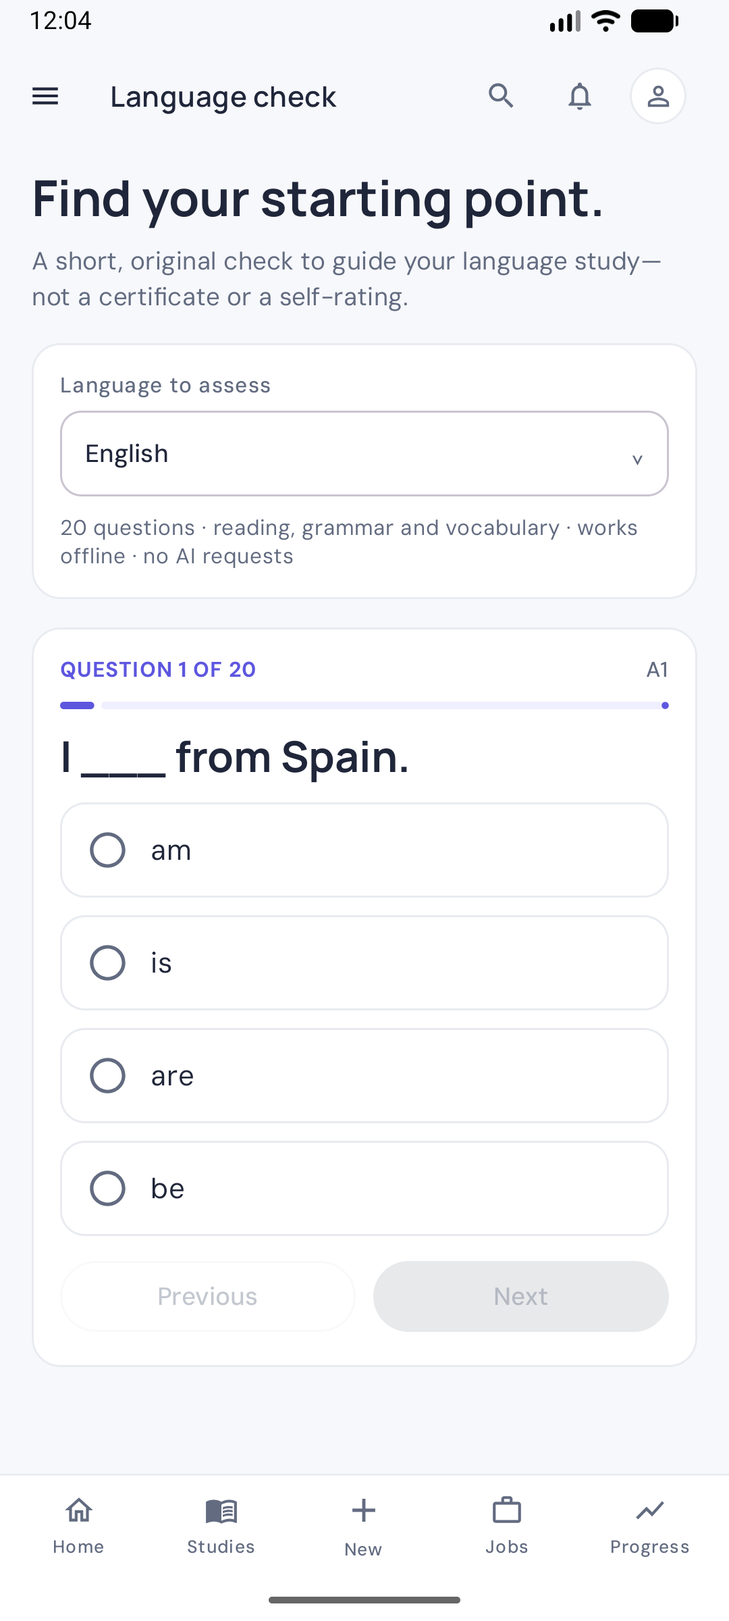
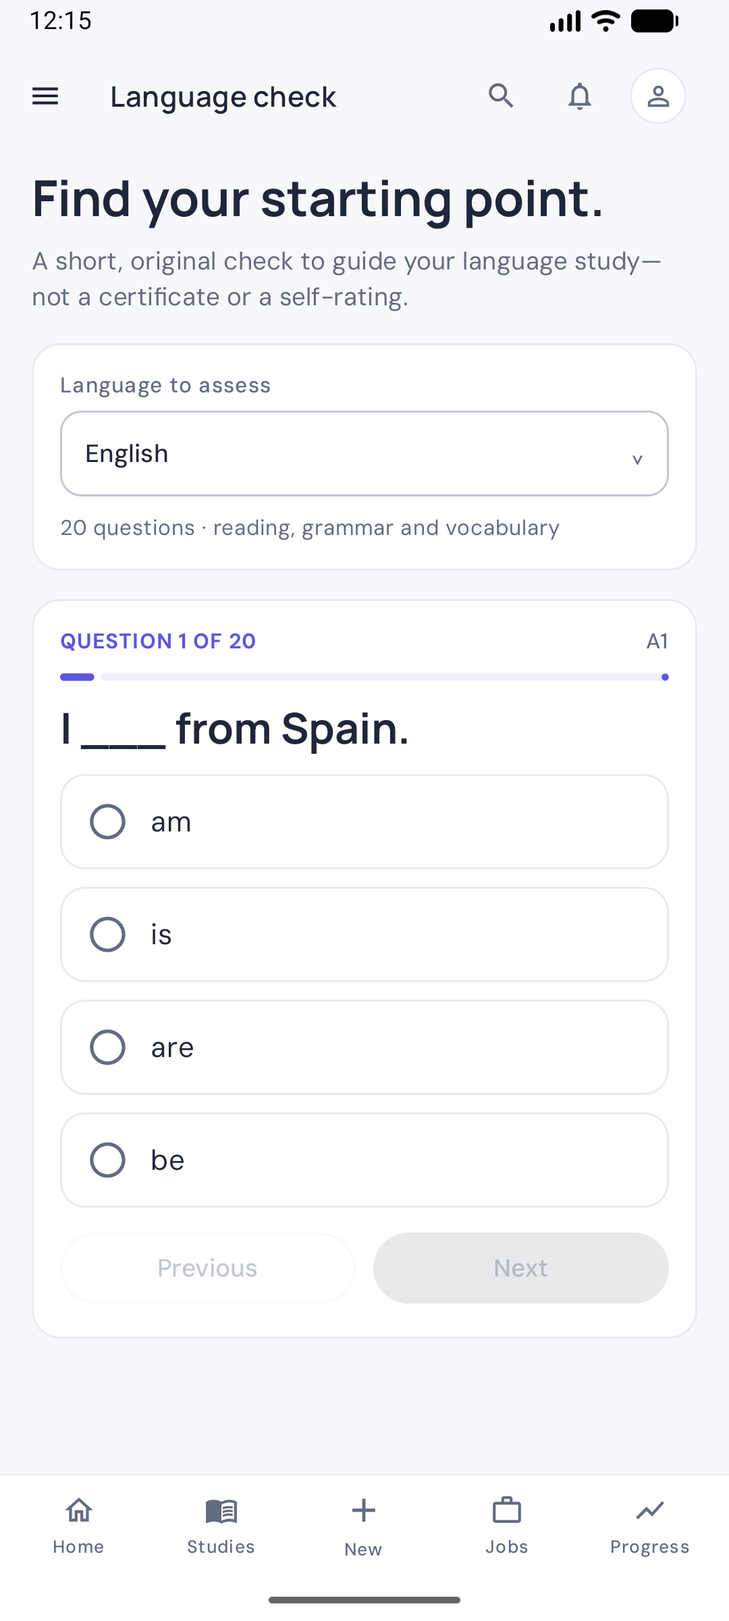
Simplify learner-facing study copy

diff --git a/android/app/src/main/java/com/oriol/letsstudy/ui/WorkspacePractice.kt b/android/app/src/main/java/com/oriol/letsstudy/ui/WorkspacePractice.kt
@@ -91,9 +91,8 @@ fun WorkspaceStudyPath(state: LetsStudyUiState, viewModel: LetsStudyViewModel, o
             WorkspaceCard {
                 Text(if (selectedModule == null) "Keep your curiosity moving" else "Practise ${selectedModule.title}", style = MaterialTheme.typography.titleMedium, fontWeight = FontWeight.Bold)
                 WorkspaceSelect("Practice format", PracticeFormat.valueOf(selectedFormat).label, PracticeFormat.entries.map { it.label }) { label -> selectedFormat = PracticeFormat.entries.first { it.label == label }.name }
-                WorkspaceSelect("Generation mode", if (mode == "ONLINE") "Fast online" else "On-device", listOf("Fast online", "On-device")) { mode = if (it == "Fast online") "ONLINE" else "OFFLINE" }
+                WorkspaceSelect("Study mode", if (mode == "ONLINE") "Fast online" else "On-device", listOf("Fast online", "On-device")) { mode = if (it == "Fast online") "ONLINE" else "OFFLINE" }
                 Button({ onGenerate(PracticeFormat.valueOf(selectedFormat), selectedModule, mode, false) }, Modifier.fillMaxWidth(), enabled = !state.workspaceBusy && !state.isGenerating) { Icon(Icons.Outlined.Add, null); Spacer(Modifier.width(8.dp)); Text("Add 15 new questions") }
-                Text("One online request per round. On-device rounds run in smaller batches and take longer.", style = MaterialTheme.typography.bodySmall, color = LetsStudyColors.Muted)
             }
         }
         item { WorkspaceAction("Ask your study tutor", "Definitions, examples and a little more clarity", Icons.Outlined.ChatBubbleOutline, onTutor) }
@@ -192,7 +191,6 @@ fun WorkspacePractice(state: LetsStudyUiState, viewModel: LetsStudyViewModel, on
                         speechError?.let { Text(it, color = MaterialTheme.colorScheme.error) }
                     }
                     Button({ onAnswer(answer.trim()); revealed = true }, enabled = answer.isNotBlank() && !state.workspaceBusy, modifier = Modifier.fillMaxWidth()) { Text(if (question.format == PracticeFormat.FILL_BLANK.name) "Check answer" else if (question.answeredAt > 0) "Review my answer again" else "Get feedback") }
-                    if (question.format != PracticeFormat.FILL_BLANK.name) Text("Feedback makes one AI request in your study's generation mode.", style = MaterialTheme.typography.bodySmall, color = LetsStudyColors.Muted)
                 }
             }
             if (selected >= 0 || question.answeredAt > 0) item {
@@ -232,10 +230,10 @@ private fun WorkspaceTheory(state: LetsStudyUiState, question: StudyQuestionEnti
                 lesson.keyTerms.forEach { term -> Text(term.term, fontWeight = FontWeight.SemiBold); Text(term.definition) }
                 Text("Remember this", fontWeight = FontWeight.Bold); Text(lesson.rememberThis)
             } else {
-                Text("Go deeper with a definition, how it works, an example and key terms. The first lesson uses one Fast Online request and is saved for offline reading.", style = MaterialTheme.typography.bodySmall)
+                Text("Go deeper with a definition, how it works, an example and key terms. Your lesson is saved with this question.", style = MaterialTheme.typography.bodySmall)
                 if (loading) CircularProgressIndicator(Modifier.size(24.dp))
                 else Button(onRequest) { Text("Learn this topic") }
-                state.conceptLessonErrorCodes[question.id]?.let { code -> Text(when (code) { "QUOTA" -> "The online quota is currently exhausted. Try again later."; "NETWORK" -> "Check your internet connection and try again."; else -> "The lesson couldn't be created. Try again." }, color = MaterialTheme.colorScheme.error) }
+                state.conceptLessonErrorCodes[question.id]?.let { code -> Text(when (code) { "QUOTA" -> "The study service is temporarily unavailable. Try again later."; "NETWORK" -> "Check your internet connection and try again."; else -> "The lesson couldn't be created. Try again." }, color = MaterialTheme.colorScheme.error) }
             }
         } }, confirmButton = { TextButton(onDismiss) { Text("Back to practice") } })
 }
@@ -264,7 +262,6 @@ fun WorkspaceTutor(state: LetsStudyUiState, questionContext: Boolean, onBack: ()
             item {
                 Row(verticalAlignment = Alignment.CenterVertically) { IconButton(onBack) { Icon(Icons.AutoMirrored.Outlined.ArrowBack, "Back to study") }; Text("Your study tutor", style = MaterialTheme.typography.titleMedium, fontWeight = FontWeight.Bold) }
                 WorkspaceTitle("Make it click.", question?.topic ?: session.title)
-                Text("Each message uses one online Gemini request, including for on-device studies. Saved conversations can be read offline.", style = MaterialTheme.typography.bodySmall, color = LetsStudyColors.Muted, modifier = Modifier.padding(top = 8.dp))
             }
             item {
                 Column(verticalArrangement = Arrangement.spacedBy(8.dp)) {

diff --git a/android/app/src/main/java/com/oriol/letsstudy/ui/WorkspaceLibrary.kt b/android/app/src/main/java/com/oriol/letsstudy/ui/WorkspaceLibrary.kt
@@ -202,8 +202,8 @@ fun WorkspaceSettings(state: LetsStudyUiState, viewModel: LetsStudyViewModel, on
                     Text("Your account display name and username are managed in Account & sync above.", style = MaterialTheme.typography.bodySmall, color = LetsStudyColors.Muted)
                 }
                 WorkspaceField(settings.language, { viewModel.saveSettings(settings.copy(language = it)) }, "Default study language", maxLength = 80)
-                WorkspaceSelect("Preferred generation", if (settings.mode == "ONLINE") "Fast online" else "On-device", listOf("Fast online", "On-device")) { viewModel.saveSettings(settings.copy(mode = if (it == "Fast online") "ONLINE" else "OFFLINE")) }
-                Text("Fast online uses a shared, limited Gemini quota. The owner can check limits in Google AI Studio. On-device avoids online generation quota but can take longer.", style = MaterialTheme.typography.bodySmall, color = LetsStudyColors.Muted)
+                WorkspaceSelect("Preferred study mode", if (settings.mode == "ONLINE") "Fast online" else "On-device", listOf("Fast online", "On-device")) { viewModel.saveSettings(settings.copy(mode = if (it == "Fast online") "ONLINE" else "OFFLINE")) }
+                Text("Fast online is quicker. On-device study may take longer and requires a one-time model download.", style = MaterialTheme.typography.bodySmall, color = LetsStudyColors.Muted)
             }
         }
         item {
@@ -228,7 +228,7 @@ fun WorkspaceSettings(state: LetsStudyUiState, viewModel: LetsStudyViewModel, on
         item {
             WorkspaceCard {
                 Text("Privacy & your data", style = MaterialTheme.typography.titleMedium, fontWeight = FontWeight.Bold)
-                Text("Your studies work without an account and are stored on this phone. If you opt into sync, your display name, private username and study library are stored with your Firebase account so they are available on your other devices. The optional community board shares only a nickname and weekly points after a separate opt-in; study content and your email stay private. Scanned PDF text is recognized on-device; Google ML Kit may separately send service performance metrics. Online AI requests are processed separately by Google Gemini; on-device generation stays on this phone.", style = MaterialTheme.typography.bodySmall, color = LetsStudyColors.Muted)
+                Text("Your studies are saved on this phone. If you enable account sync, your profile and study library are stored in Firebase. Fast Online sends relevant study material and submitted answers or tutor messages to Google Gemini. On-device study generation uses the model installed on your phone; tutor messages and deeper lessons still use Google Gemini. Scanned PDFs are read on your phone, though Google ML Kit may send service metrics. The optional community board shows your chosen name and weekly points after you join; your email and study content stay private.", style = MaterialTheme.typography.bodySmall, color = LetsStudyColors.Muted)
                 TextButton({ clearConfirm = true }, colors = ButtonDefaults.textButtonColors(contentColor = MaterialTheme.colorScheme.error)) { Text("Delete all study data") }
                 TextButton({ showNotices = true }) { Text("Third-party licenses") }
             }
@@ -306,7 +306,7 @@ private fun AccountSyncPanel(account: StudyAccountState, localDisplayName: Strin
                 CloudSyncStatus.CONNECTING -> "Connecting to your private study library…"
                 CloudSyncStatus.SYNCING -> "Syncing your studies…"
                 CloudSyncStatus.SYNCED -> "Your studies are up to date"
-                CloudSyncStatus.OFFLINE -> "Offline · saved studies stay on this phone until sync resumes"
+                CloudSyncStatus.OFFLINE -> "No connection · saved studies will sync when your connection returns"
                 CloudSyncStatus.ERROR -> "Cloud sync needs attention"
             }
             Row(verticalAlignment = Alignment.CenterVertically, horizontalArrangement = Arrangement.spacedBy(8.dp)) {

diff --git a/android/app/src/main/java/com/oriol/letsstudy/ui/ConceptLessonUiCopy.kt b/android/app/src/main/java/com/oriol/letsstudy/ui/ConceptLessonUiCopy.kt
@@ -8,7 +8,6 @@ data class ConceptLessonUiCopy(
     val loading: String,
     val retryAction: String,
     val closeAction: String,
-    val quotaNote: String,
     val keyTermsTitle: String,
     val rememberTitle: String,
     val networkError: String,
@@ -43,11 +42,10 @@ data class ConceptLessonUiCopy(
             loading = "Building your lesson…",
             retryAction = "Try again",
             closeAction = "Back to question",
-            quotaNote = "Uses one shared Gemini request. The lesson is saved for offline review.",
             keyTermsTitle = "Key terms",
             rememberTitle = "Remember this",
             networkError = "Couldn’t connect. Check your internet and try again.",
-            quotaError = "The shared Gemini quota is currently unavailable. Try again later.",
+            quotaError = "The study service is temporarily unavailable. Try again later.",
             appCheckError = "Firebase couldn’t verify this app. Check its App Check registration.",
             timeoutError = "The lesson took too long to arrive. Try again.",
             invalidResponseError = "The lesson came back incomplete. Try again.",
@@ -62,11 +60,10 @@ data class ConceptLessonUiCopy(
             loading = "Preparando la explicación…",
             retryAction = "Intentar de nuevo",
             closeAction = "Volver a la pregunta",
-            quotaNote = "Usa una solicitud compartida de Gemini. Después podrás consultar la explicación sin conexión.",
             keyTermsTitle = "Conceptos clave",
             rememberTitle = "Qué recordar",
             networkError = "No se pudo conectar. Comprueba internet e inténtalo de nuevo.",
-            quotaError = "El límite compartido de Gemini no está disponible ahora. Prueba más tarde.",
+            quotaError = "El servicio de estudio no está disponible en este momento. Inténtalo más tarde.",
             appCheckError = "Firebase no pudo verificar esta app. Revisa su registro de App Check.",
             timeoutError = "La explicación tardó demasiado. Inténtalo de nuevo.",
             invalidResponseError = "La explicación llegó incompleta. Inténtalo de nuevo.",
@@ -81,11 +78,10 @@ data class ConceptLessonUiCopy(
             loading = "กำลังสร้างบทเรียน…",
             retryAction = "ลองอีกครั้ง",
             closeAction = "กลับไปที่คำถาม",
-            quotaNote = "ใช้คำขอ Gemini ที่แชร์กันหนึ่งครั้ง จากนั้นบันทึกไว้อ่านแบบออฟไลน์ได้",
             keyTermsTitle = "คำศัพท์สำคัญ",
             rememberTitle = "สิ่งที่ควรจำ",
             networkError = "เชื่อมต่อไม่ได้ ตรวจสอบอินเทอร์เน็ตแล้วลองอีกครั้ง",
-            quotaError = "โควตา Gemini ที่แชร์กันยังไม่พร้อมใช้งาน ลองใหม่ภายหลัง",
+            quotaError = "บริการการเรียนยังไม่พร้อมใช้งาน ลองอีกครั้งภายหลัง",
             appCheckError = "Firebase ยืนยันแอปนี้ไม่ได้ ตรวจสอบการลงทะเบียน App Check",
             timeoutError = "บทเรียนใช้เวลานานเกินไป ลองอีกครั้ง",
             invalidResponseError = "บทเรียนที่ได้รับไม่สมบูรณ์ ลองอีกครั้ง",

diff --git a/android/app/src/main/java/com/oriol/letsstudy/ui/ModelSetupCard.kt b/android/app/src/main/java/com/oriol/letsstudy/ui/ModelSetupCard.kt
@@ -157,7 +157,7 @@ fun ModelSetupCard(
                 ModelSetupPresentation.Ready -> {
                     Spacer(Modifier.height(8.dp))
                     Text(
-                        "Questions and answer feedback are created on this phone. Study works offline after setup.",
+                        "Ready to create another study round.",
                         style = MaterialTheme.typography.bodySmall,
                         color = LetsStudyColors.Muted,
                     )
@@ -179,7 +179,7 @@ fun ModelSetupCard(
                 onClick = { showModelLicense = true },
                 modifier = Modifier.align(Alignment.CenterHorizontally),
             ) {
-                Text("How offline study works", color = LetsStudyColors.Primary)
+                Text("About On-device study", color = LetsStudyColors.Primary)
             }
         }
     }
@@ -192,7 +192,7 @@ fun ModelSetupCard(
             icon = { Icon(Icons.Outlined.CloudDownload, null, tint = LetsStudyColors.Primary) },
             title = { Text("Download using mobile data?") },
             text = {
-                Text("This downloads ${ModelCatalog.DISPLAY_SIZE} once. Your mobile provider may charge for data or count it toward your plan. After the model is installed, questions are generated on your phone without an AI account.")
+                Text("This downloads ${ModelCatalog.DISPLAY_SIZE} once. Your mobile provider may charge for the data or count it toward your plan.")
             },
             confirmButton = {
                 TextButton(
@@ -214,7 +214,7 @@ fun ModelSetupCard(
             onDismissRequest = { showModelLicense = false },
             shape = RoundedCornerShape(26.dp),
             containerColor = LetsStudyColors.Card,
-            title = { Text("How offline study works") },
+            title = { Text("About On-device study") },
             text = {
                 Column(
                     Modifier.heightIn(max = 440.dp).verticalScroll(rememberScrollState()),
@@ -233,21 +233,21 @@ fun ModelSetupCard(
 }
 
 private fun titleFor(state: ModelSetupPresentation): String = when (state) {
-    ModelSetupPresentation.NeedsDownload -> "Take study offline"
+    ModelSetupPresentation.NeedsDownload -> "Set up On-device study"
     ModelSetupPresentation.Queued -> "Waiting for Wi‑Fi"
-    is ModelSetupPresentation.Downloading -> "Getting offline study ready"
+    is ModelSetupPresentation.Downloading -> "Downloading study model"
     ModelSetupPresentation.Verifying -> "Checking the model file"
-    ModelSetupPresentation.Ready -> "Offline study is ready"
+    ModelSetupPresentation.Ready -> "On-device study is ready"
     ModelSetupPresentation.Loading -> "Opening the study model"
     is ModelSetupPresentation.Failed -> "Couldn’t finish model setup"
 }
 
 private fun detailFor(state: ModelSetupPresentation): String = when (state) {
-    ModelSetupPresentation.NeedsDownload -> "Download once, then study on your phone"
+    ModelSetupPresentation.NeedsDownload -> "Download the model once to use this study option"
     ModelSetupPresentation.Queued -> "The download will resume when Wi‑Fi is available"
     is ModelSetupPresentation.Downloading -> "This can take a while. You can pause and resume later."
     ModelSetupPresentation.Verifying -> "Making sure every model file is complete"
-    ModelSetupPresentation.Ready -> "The local study model is installed"
+    ModelSetupPresentation.Ready -> "Ready for your next study round"
     ModelSetupPresentation.Loading -> "Starting the model for your first study"
     is ModelSetupPresentation.Failed -> "Your saved sessions are still here"
 }

diff --git a/android/app/src/main/java/com/oriol/letsstudy/ui/StudyWorkspaceApp.kt b/android/app/src/main/java/com/oriol/letsstudy/ui/StudyWorkspaceApp.kt
@@ -133,7 +133,7 @@ fun StudyWorkspaceApp(viewModel: LetsStudyViewModel) {
     val pendingDelete = state.sessions.firstOrNull { it.id == pendingDeleteId }
     if (pendingDelete != null) AlertDialog(onDismissRequest = { pendingDeleteId = null }, title = { Text("Delete this study?") }, text = { Text(if (state.account.email == null) "“${pendingDelete.title}”, its questions, conversations and progress will be removed from this phone." else "“${pendingDelete.title}”, its questions, conversations and progress will be removed from this phone and your synced devices.") },
         confirmButton = { TextButton({ viewModel.deleteSession(pendingDelete.id); pendingDeleteId = null }) { Text("Delete") } }, dismissButton = { TextButton({ pendingDeleteId = null }) { Text("Keep study") } })
-    if (onlineAction != null) AlertDialog(onDismissRequest = { onlineAction = null }, title = { Text("Study with Fast Online") }, text = { Text("Relevant study material and submitted messages or answers are sent to Google's Gemini service. The app's free quota is shared and limited. You don't need an AI account. Saved content can be read offline.") },
+    if (onlineAction != null) AlertDialog(onDismissRequest = { onlineAction = null }, title = { Text("Use Fast Online") }, text = { Text("To prepare study content, relevant material and any answers or messages you submit are sent to Google Gemini. This free service has a shared usage limit and may be temporarily unavailable.") },
         confirmButton = { TextButton({ viewModel.saveSettings(state.settings.copy(onlineDisclosureAccepted = true)); val action = onlineAction; onlineAction = null; action?.invoke() }) { Text("Continue") } }, dismissButton = { TextButton({ onlineAction = null }) { Text("Cancel") } })
     if (busy) Dialog(onDismissRequest = {}) {
         WorkspaceCard {

diff --git a/android/app/src/main/java/com/oriol/letsstudy/ui/HomeScreen.kt b/android/app/src/main/java/com/oriol/letsstudy/ui/HomeScreen.kt
@@ -229,14 +229,14 @@ fun HomeScreen(
                         )
                     }
 
-                    Text("GENERATION MODE", style = MaterialTheme.typography.labelSmall, color = LetsStudyColors.Muted, fontWeight = FontWeight.Bold, letterSpacing = 0.65.sp, modifier = Modifier.padding(top = 15.dp, bottom = 8.dp))
+                    Text("STUDY MODE", style = MaterialTheme.typography.labelSmall, color = LetsStudyColors.Muted, fontWeight = FontWeight.Bold, letterSpacing = 0.65.sp, modifier = Modifier.padding(top = 15.dp, bottom = 8.dp))
                     Row(horizontalArrangement = Arrangement.spacedBy(9.dp)) {
                         ModeTile("Fast online", "Quick generation", generationMode == "ONLINE", Icons.Outlined.Bolt, Modifier.weight(1f)) { generationMode = "ONLINE" }
                         ModeTile("On-device", "Runs on your phone", generationMode == "OFFLINE", Icons.Outlined.Memory, Modifier.weight(1f)) { generationMode = "OFFLINE" }
                     }
                     Text(
-                        if (generationMode == "ONLINE") "Uses the project’s Gemini service. Job text is sent to Google."
-                        else "Download the model once. Generation stays on your phone and takes longer.",
+                        if (generationMode == "ONLINE") "Fast Online creates your questions more quickly."
+                        else "On-device study may take longer and requires a one-time model download.",
                         style = MaterialTheme.typography.bodySmall,
                         color = LetsStudyColors.Muted,
                         modifier = Modifier.padding(top = 9.dp),

diff --git a/android/app/src/main/java/com/oriol/letsstudy/ui/PracticeScreen.kt b/android/app/src/main/java/com/oriol/letsstudy/ui/PracticeScreen.kt
@@ -447,10 +447,7 @@ private fun LessonActionCard(
             Row(verticalAlignment = Alignment.CenterVertically) {
                 Icon(Icons.Outlined.Lightbulb, null, tint = LetsStudyColors.Clay, modifier = Modifier.size(21.dp))
                 Spacer(Modifier.width(9.dp))
-                Column(Modifier.weight(1f)) {
-                    Text(copy.lessonIntro, style = MaterialTheme.typography.bodyMedium, fontWeight = FontWeight.SemiBold)
-                    Text(copy.quotaNote, style = MaterialTheme.typography.bodySmall, color = LetsStudyColors.Muted, modifier = Modifier.padding(top = 3.dp))
-                }
+                Text(copy.lessonIntro, Modifier.weight(1f), style = MaterialTheme.typography.bodyMedium, fontWeight = FontWeight.SemiBold)
             }
             if (errorMessage != null) {
                 Text(errorMessage, style = MaterialTheme.typography.bodySmall, color = MaterialTheme.colorScheme.error, modifier = Modifier.padding(top = 10.dp))

diff --git a/android/app/src/main/java/com/oriol/letsstudy/ui/LetsStudyViewModel.kt b/android/app/src/main/java/com/oriol/letsstudy/ui/LetsStudyViewModel.kt
@@ -556,7 +556,7 @@ class LetsStudyViewModel(application: Application) : AndroidViewModel(applicatio
         is IOException -> "There's no internet connection. Check your connection and try again."
         else -> when {
             error.javaClass.simpleName.contains("Quota", ignoreCase = true) || error.message.orEmpty().contains("quota", ignoreCase = true) ->
-                "The free online study limit has been reached. Choose On-device mode for another round, or try online later."
+                "Fast Online is temporarily unavailable. Try again later or choose On-device study."
             error.message.orEmpty().contains("App Check", ignoreCase = true) ->
                 "Firebase App Check could not verify this build. Check the app registration and try again."
             else -> "The online study service could not finish this round. Try again or choose On-device mode. Your saved progress is safe."

diff --git a/android/app/src/main/java/com/oriol/letsstudy/ui/WorkspaceHome.kt b/android/app/src/main/java/com/oriol/letsstudy/ui/WorkspaceHome.kt
@@ -182,7 +182,6 @@ fun WorkspaceTopicSetup(state: LetsStudyUiState, initialTopic: String, materialM
                 Button({ onCreate(StudySetup(topic.trim(), goal.trim(), level, intensity, target.trim(), language.trim(), mode,
                     if (materialMode) "MATERIAL" else "TOPIC", if (materialMode) state.importedMaterial?.text.orEmpty() else "", if (materialMode) state.importedMaterial?.name.orEmpty() else "")) },
                     Modifier.fillMaxWidth(), enabled = topic.trim().length >= 3 && language.isNotBlank() && (!materialMode || state.importedMaterial != null) && !state.workspaceBusy) { Text("Build my learning path") }
-                Text("A plan is one AI request. Each practice round or tutor message is another. Saved content opens offline.", style = MaterialTheme.typography.bodySmall, color = LetsStudyColors.Muted)
             }
         }
     }

diff --git a/android/app/src/main/java/com/oriol/letsstudy/ui/StudyScreen.kt b/android/app/src/main/java/com/oriol/letsstudy/ui/StudyScreen.kt
@@ -164,7 +164,7 @@ fun StudyScreen(
                         Text(if (isGenerating) "Making 15 more…" else "Add 15 questions", style = MaterialTheme.typography.labelMedium)
                     }
                 }
-                if (!offlineAvailable) Text("Offline mode can be set up from Home.", style = MaterialTheme.typography.labelSmall, color = LetsStudyColors.Muted, modifier = Modifier.padding(top = 5.dp))
+                if (!offlineAvailable) Text("Set up On-device study from Home.", style = MaterialTheme.typography.labelSmall, color = LetsStudyColors.Muted, modifier = Modifier.padding(top = 5.dp))
             }
             if (isGenerating) item { GenerationJourneyCard(generationProgress, nextRoundMode == "ONLINE", moreQuestions = true) }
             if (errorMessage != null) item { ErrorBanner(errorMessage, onDismissError) }

diff --git a/android/app/src/main/java/com/oriol/letsstudy/data/StudyAccountSync.kt b/android/app/src/main/java/com/oriol/letsstudy/data/StudyAccountSync.kt
@@ -518,7 +518,7 @@ class StudyAccountSync(private val dao: StudyDao) {
         }
         is FirebaseFirestoreException -> when (error.code) {
             FirebaseFirestoreException.Code.PERMISSION_DENIED -> "Firebase denied cloud sync. Publish the Firestore security rules from the project README."
-            FirebaseFirestoreException.Code.UNAVAILABLE -> "Cloud sync is offline. Your study data remains on this phone."
+            FirebaseFirestoreException.Code.UNAVAILABLE -> "Your studies are saved on this phone. Check your connection to resume sync."
             else -> "Cloud sync could not finish. Your study data remains on this phone."
         }
         is kotlinx.coroutines.TimeoutCancellationException -> "Cloud sync is taking too long. Check the connection and try again."

diff --git a/android/app/src/main/java/com/oriol/letsstudy/ui/WorkspaceLevelCheck.kt b/android/app/src/main/java/com/oriol/letsstudy/ui/WorkspaceLevelCheck.kt
@@ -51,7 +51,7 @@ fun WorkspaceLevelCheck(onMenu: () -> Unit, onBuildPath: (LanguagePlacementResul
                 WorkspaceSelect("Language to assess", language, LanguagePlacementTest.languages) {
                     language = it
                 }
-                Text("20 questions · reading, grammar and vocabulary · works offline · no AI requests", style = androidx.compose.material3.MaterialTheme.typography.bodySmall, color = LetsStudyColors.Muted)
+                Text("20 questions · reading, grammar and vocabulary", style = androidx.compose.material3.MaterialTheme.typography.bodySmall, color = LetsStudyColors.Muted)
             }
         }
         if (questionIndex < questions.size) {
